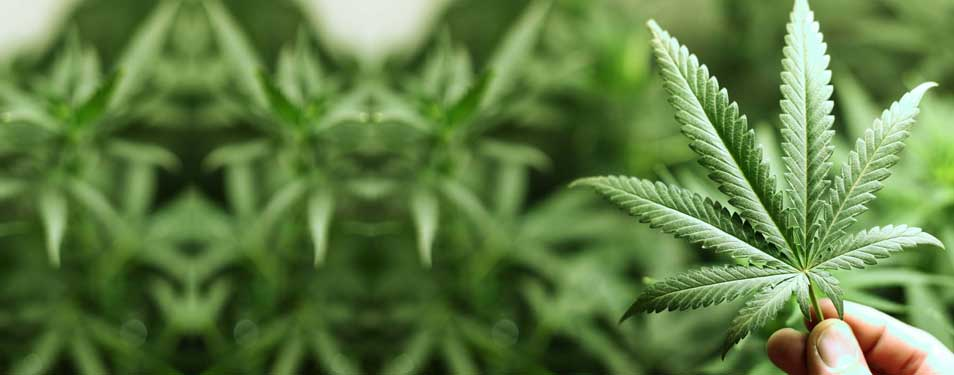
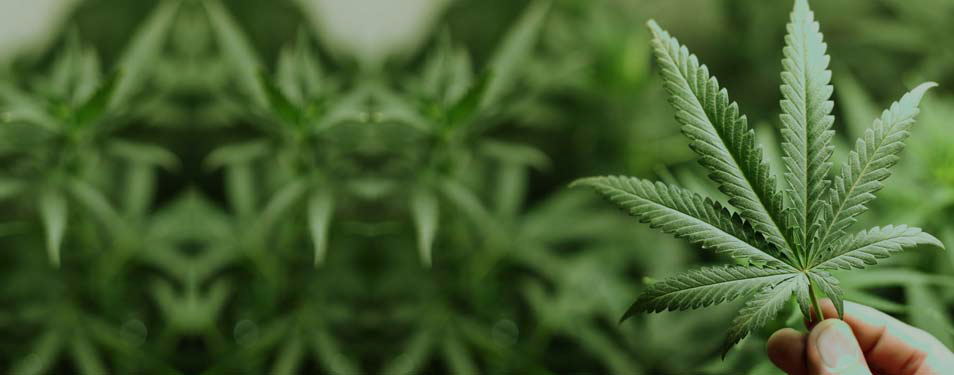
Image contraste improved to landing text.

diff --git a/app/templates/layout/inc_footer_section.html b/app/templates/layout/inc_footer_section.html
@@ -67,7 +67,7 @@
           </li>
 
           <li>
-            <hr>
+            <hr class="border-white">
           {% get_current_language as LANGUAGE_CODE %}
           {% get_available_languages as languages %}
 
